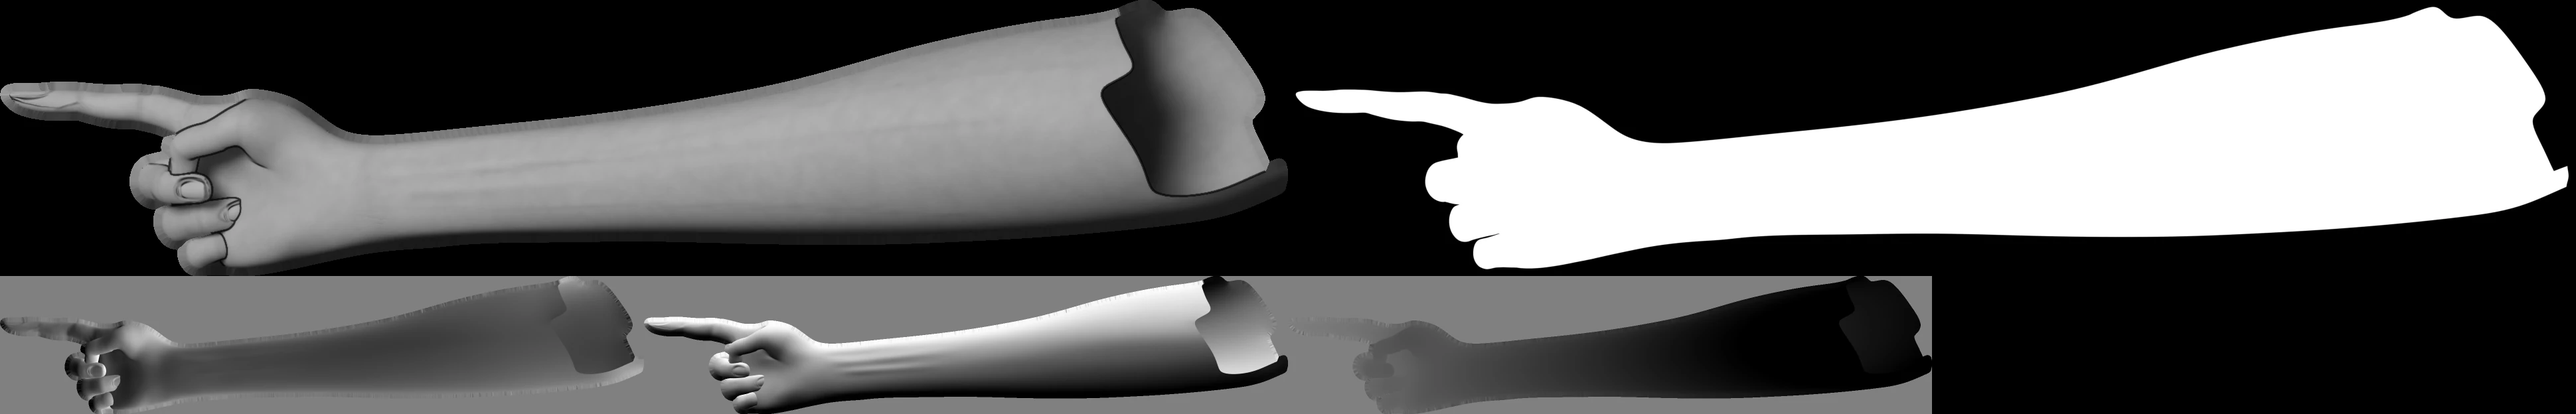
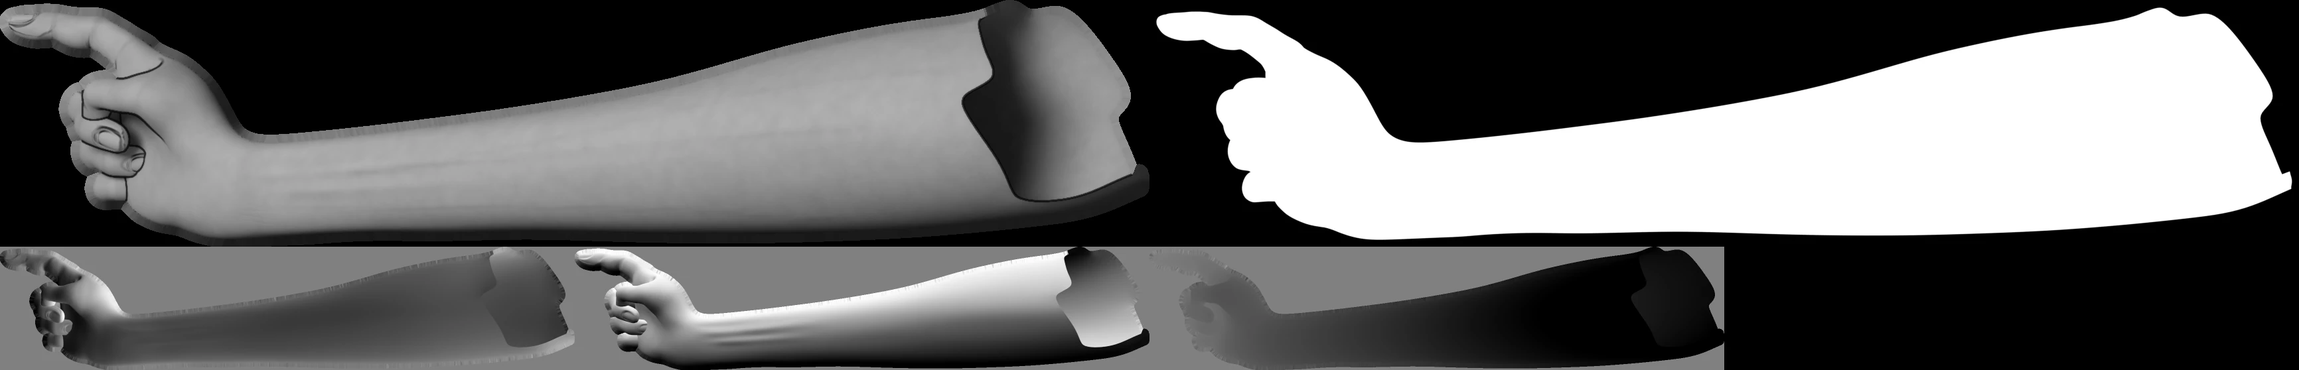
Zeigehand in echter Fingergröße und leicht gebeugt, eingerollte Finger gestaffelt mit Knöcheln und Nägeln (HAND_V 8)

diff --git a/src/components/landing/scenes/ende/hand.js b/src/components/landing/scenes/ende/hand.js
@@ -14,7 +14,7 @@ import { qa } from '../../core/loop';
 import { istHoch } from './kamera';
 
 // Bei jedem neuen Render erhöhen: json und webp gehören zusammen und werden gemeinsam gecacht.
-const HAND_V = 7;
+const HAND_V = 8;
 const STEP = 1.25; // Zellgröße in Bühnen-px (fein: Halbton liest als Haut, nicht als Raster)
 const GAM = 0.85;
 const CON = 1.05;

diff --git a/design/HAND.md b/design/HAND.md
@@ -4,6 +4,10 @@ Stand 2026-10-07. Die beiden Kapsel-Hände der Engine (Handy-Hand `holdBack`/`ho
 
 Referenz-Umsetzung (läuft, Screenshots bei 1440 × 900 und 390 × 844 geprüft): `/Users/abu/Company/archiv/hand/scripts/preview.html` (Aufruf: Ordner `archiv/hand` mit `python3 -m http.server`, dann `/scripts/preview.html` mit `?b=../final/`; Parameter `ps`, `g`, `con`, `rim`, `view`, `ascii=1`, `mx/my/px/py`), eingeklebt im Abschnitt 6.
 
+### Stand 2026-10-08, sechste Runde (HAND_V 8): Zeigehand natürlich proportioniert
+
+Die Zeigehand aus Runde vier las sich als dünner weißer Stab mit einem Klumpen darunter: Der Zeigefinger war auf Dicke 0,88/0,9 und Länge 1,3/1,15 skaliert. Neu (`archiv/hand/v3/q8/v10_p.json`, ausgesucht aus den Kontaktbögen `ich/pa.png` und `ich/pb.png`): Zeigefinger in echter Größe (keine `sc`-Werte für `finger2-*`), leicht gebeugt (Grund-, Mittel- und Endgelenk 6/14/8°, Nagel weiter zum Betrachter gedreht), Mittelfinger etwas offener (62°), so dass Mittel-, Ring- und kleiner Finger gestaffelt mit Nägeln und Knöcheln zu sehen sind und der Daumen am Mittelfinger anliegt. Render `render8.py point … 160 100 lights/LP8r.json` → `out/P10`, Pack wie Runde vier (`--gain 0.72 --lgamma 1.15 --ink 0.7 --inkw 0.6 --anchor 60,240`).
+
 ### Stand 2026-10-08, fünfte Runde (HAND_V 7): Haltehand neu gestellt nach Referenzfoto 2
 
 Rohe Farb-Renders mit Front-, Seiten- und Draufsicht (`archiv/hand/v3/ich/go.sh`, `ich/sweep.py`, `ich/r8p.py`) zeigten die Ursache: Die Daumenwurzel lag hinter dem Handy (nur die Kuppe schaute vor), und die Hand saß so weit vorn, dass die Fingerspitzen rechts um die Kante bis aufs Glas griffen. Neu (`archiv/hand/v3/ich/base740.json`): Daumen `finger1-1` −26/−6/−5 (liegt vollständig neben der linken Kante, Nagel und Gelenkfalte sichtbar), Handgelenk `wrist` 588/740 und 55 mm hinter der Referenzebene (Handfläche an der Rückseite, Finger greifen um die rechte Kante und bleiben neben dem Glas). Render `render8.py` 128 Samples, Licht `lights/v9q.json`, Pack `pack8.py --pct 98 --gain 0.76 --lgamma 1.05 --ink 0.8 --inkw 0.65` → `out/I1/pk`. Zeigehand unverändert aus Runde vier. Shader: Auf dem Gehäuserand (zwischen Glas und Außenkante) ist der Ton der vorderen Ebene auf 0,5 gedeckelt, sonst brennt die Daumenkuppe dort als weiße Fläche aus.
